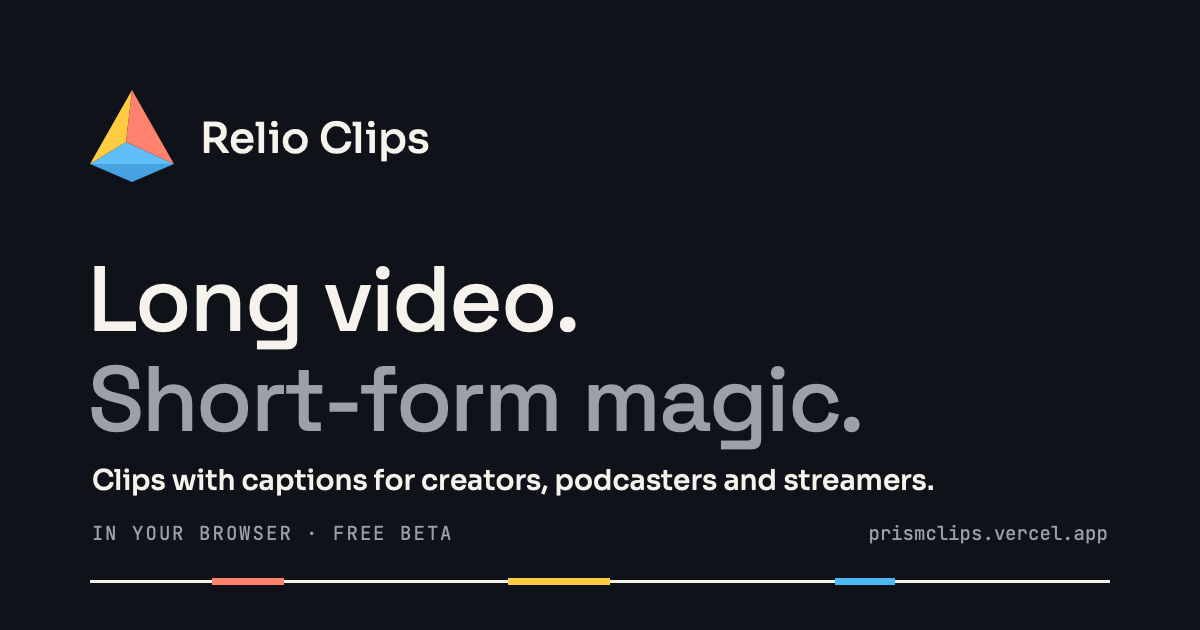
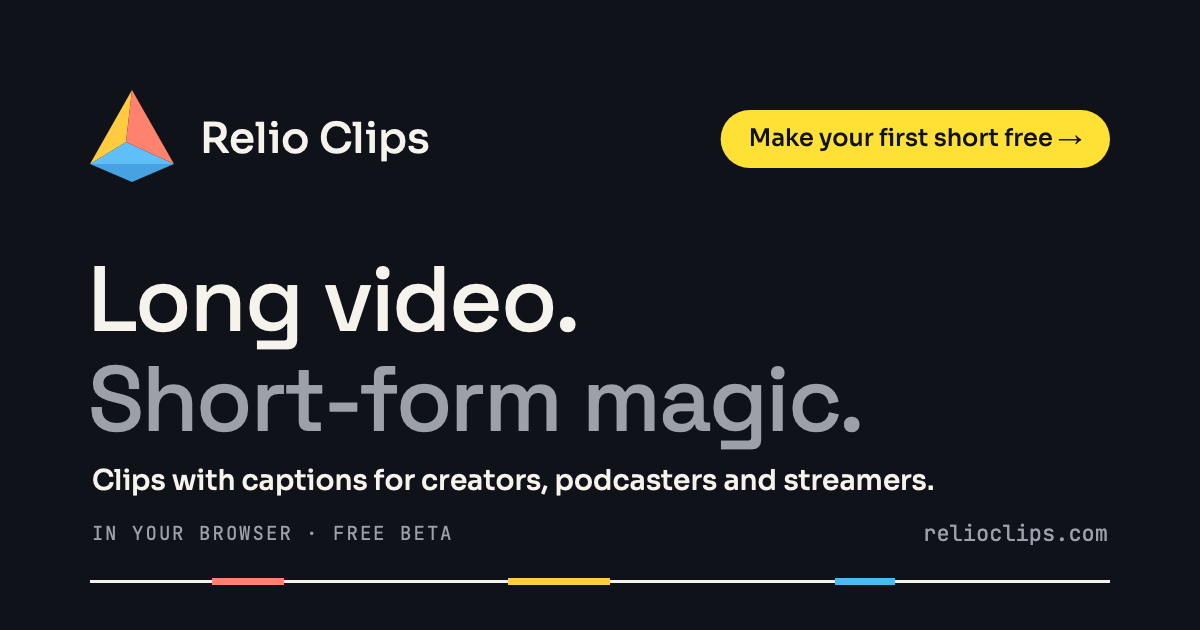
Share image and meta: call-to-action, relioclips.com, shorter description, tab title
- og-image: "Make your first short free →" button; footer shows relioclips.com
- Homepage description and og:description shortened
- App tab title: "· Relio Clips"

Changed region(s): [[0.5858, 0.1508, 0.925, 0.2714], [0.7092, 0.8143, 0.925, 0.8746]]

diff --git a/index.html b/index.html
@@ -6,12 +6,12 @@
   <meta name="theme-color" content="#0E0F14" media="(prefers-color-scheme: dark)">
   <meta name="theme-color" content="#F6F3EC" media="(prefers-color-scheme: light)">
   <title>Relio Clips — Long video. Short-form magic.</title>
-  <meta name="description" content="Turn podcasts, lectures and streams into vertical Shorts with captions. AI finds the moments, you make the final cut. Relio is an early beta for macOS, with Windows and Linux ports awaiting device testing.">
+  <meta name="description" content="Turn long videos into ready-to-post shorts with captions. Free beta, runs in your browser.">
   <link rel="canonical" href="https://relioclips.com/">
   <meta property="og:type" content="website">
   <meta property="og:site_name" content="Relio Clips">
   <meta property="og:title" content="Relio Clips — Long video. Short-form magic.">
-  <meta property="og:description" content="Turn podcasts, lectures and streams into vertical Shorts with captions. AI finds the moments, you make the final cut. Relio is an early beta for macOS, with Windows and Linux ports awaiting device testing.">
+  <meta property="og:description" content="Turn long videos into ready-to-post shorts with captions. Free beta, runs in your browser.">
   <meta property="og:url" content="https://relioclips.com/">
   <meta property="og:image" content="https://relioclips.com/og-image.png">
   <meta property="og:image:width" content="1200">

diff --git a/app/app.js b/app/app.js
@@ -151,7 +151,7 @@ function setScreen(screen) {
     heading.querySelector('input').value = state.project?.title ?? '';
   } else heading.textContent = title;
   $('#export-button').hidden = screen !== 'editor';
-  document.title = `${title} · Relio`;
+  document.title = `${title} · Relio Clips`;
   // The editor keeps only what editing needs, so the theme switch lives on the other screens.
   $('.theme-toggle').hidden = screen === 'editor';
   for (const button of document.querySelectorAll('.side-button')) {
@@ -1805,7 +1805,7 @@ document.addEventListener('change', async (event) => {
   if (event.target.id === 'title' && state.project) {
     state.project.title = event.target.value.trim() || state.project.title;
     event.target.value = state.project.title;
-    document.title = `${state.project.title} · Relio`;
+    document.title = `${state.project.title} · Relio Clips`;
     await persist();
     setUrl(projectPath(state.project) + (location.pathname.match(/\/short-\d+$/)?.[0] ?? ''), true);
     return;
